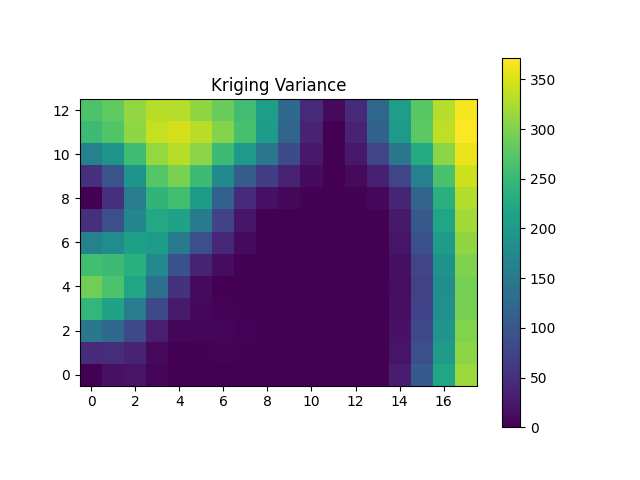
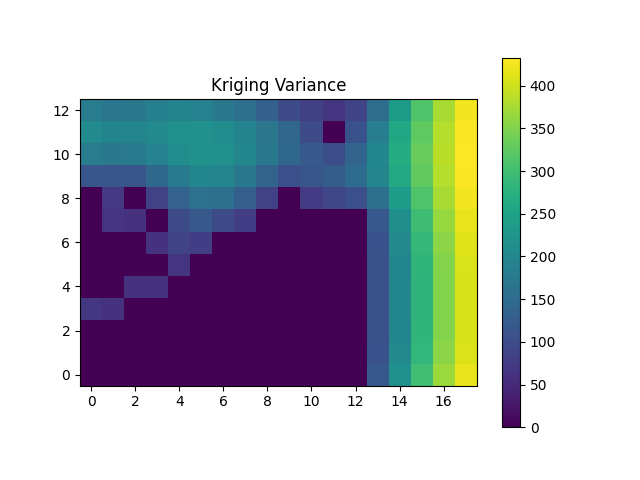
Estimate and use best kriging variogram model after 20 samples using CV

diff --git a/mesa_spatial_sampling_MRS/model.py b/mesa_spatial_sampling_MRS/model.py
@@ -158,13 +158,27 @@ class Robot(Agent):
                     # print(y_arr)
                     # print(o_arr)
 
-                    if self.model.num_samples == 10:
-                        print(kriging_param_cv(sampled_cells, o_arr))
+                    # if self.model.num_samples == 10:
+                    if self.model.num_samples == 20:
+                        # print(kriging_param_cv(sampled_cells, o_arr))
+                        variogram_models = ["linear", "power", "gaussian", "spherical"]
+                        model_scores = []
 
-                    variogram = 'gaussian'
+                        for variogram_model in variogram_models:
+                            m, v = predict_by_kriging(xgrid, ygrid, x_arr, y_arr, o_arr, variogram=variogram_model)
+
+                            m = np.flipud(m)
+                            m = np.fliplr(m)
+                            model_score = np.sqrt(np.mean(np.power(np.array(self.model.gaussian) - m, 2)))
+                            model_scores.append(model_score)
+                            print(variogram_model, model_score)
+
+                        best_model = variogram_models[np.argmin(model_scores)]
+                        self.model.variogram = best_model
+                        print("Best variogram model:", best_model)
 
                     # Run prediction
-                    m, v = predict_by_kriging(xgrid, ygrid, x_arr, y_arr, o_arr, variogram=variogram)
+                    m, v = predict_by_kriging(xgrid, ygrid, x_arr, y_arr, o_arr, variogram=self.model.variogram)
 
                     m = np.flipud(m)
                     m = np.fliplr(m)
@@ -462,7 +476,7 @@ class UnsampledCell(SampledCell):
 
 
 class SpatialSamplingModel(Model):
-    def __init__(self, height=20, width=20, num_robots=2, task_allocation="SSI", trial_num=2,
+    def __init__(self, height=20, width=20, num_robots=2, task_allocation="SSI", trial_num=1,
                  sampling_strategy="dynamic",
                  results_dir="./results/3robs_20x20_grid_sampling_all_cells/",
                  verbose=True):
@@ -490,8 +504,8 @@ class SpatialSamplingModel(Model):
         self.variogram = "gaussian"
         self.num_robots = num_robots
         self.robots = []
-        self.RMSE = 999
-        self.avg_variance = 999
+        self.RMSE = -1
+        self.avg_variance = -1
         self.RMSEs = []
         self.variance_avgs = []
         self.num_samples = 0

diff --git a/mesa_spatial_sampling_MRS/kriging_utils/kriging_cv.py b/mesa_spatial_sampling_MRS/kriging_utils/kriging_cv.py
@@ -27,12 +27,16 @@ estimator = GridSearchCV(Krige(), param_dict, verbose=True, return_train_score=T
 
 
 def kriging_param_cv(x, y):
-    # dummy data
+    # # dummy data
     X = np.array(x, dtype=np.float64)
-    Y = np.array(y, dtype=np.float64)
+    Y = np.array(y)
 
     print(X.shape)
-    print(Y.shape)
+    print(X.dtype)
+    print("X is finite:", np.isfinite(X))
+    # print(y.shape)
+    print(Y.dtype)
+    print("Y is finite:", np.isfinite(Y))
     # run the gridsearch
     estimator.fit(X=X, y=Y)
 
